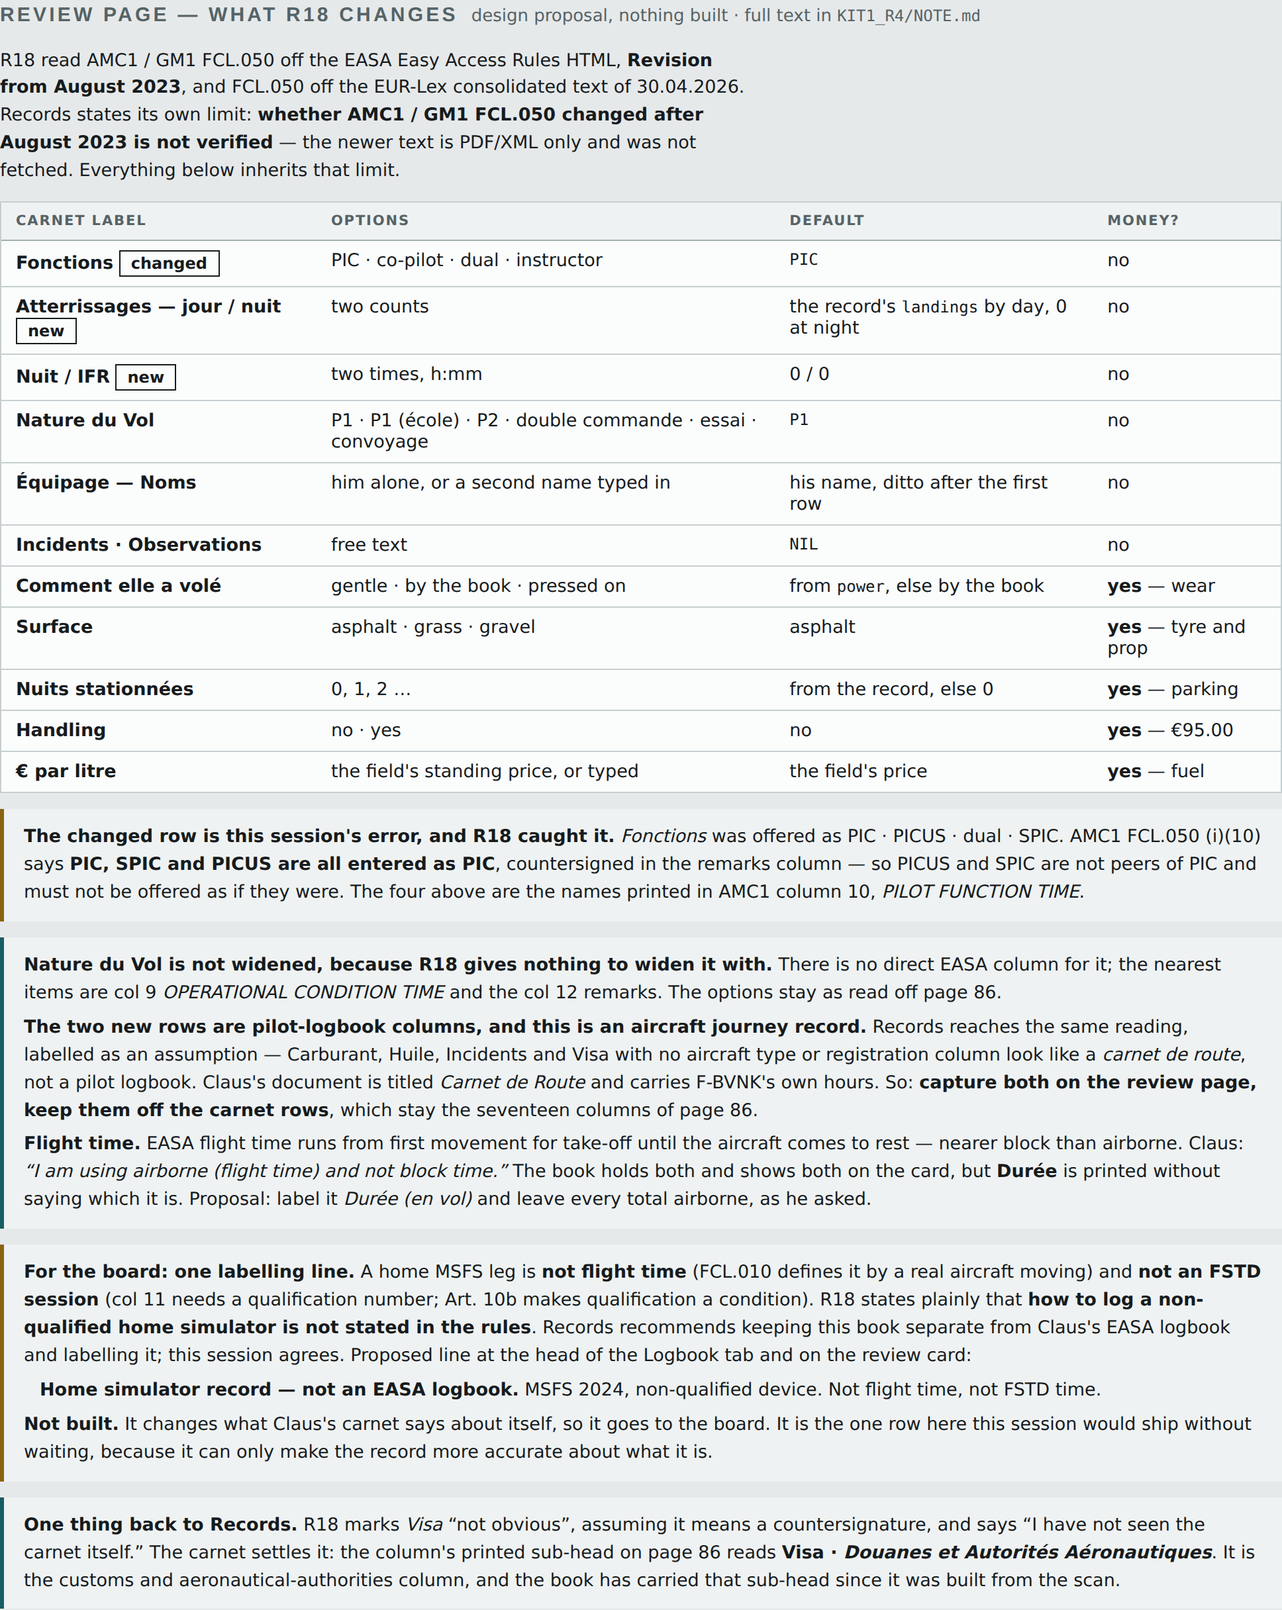
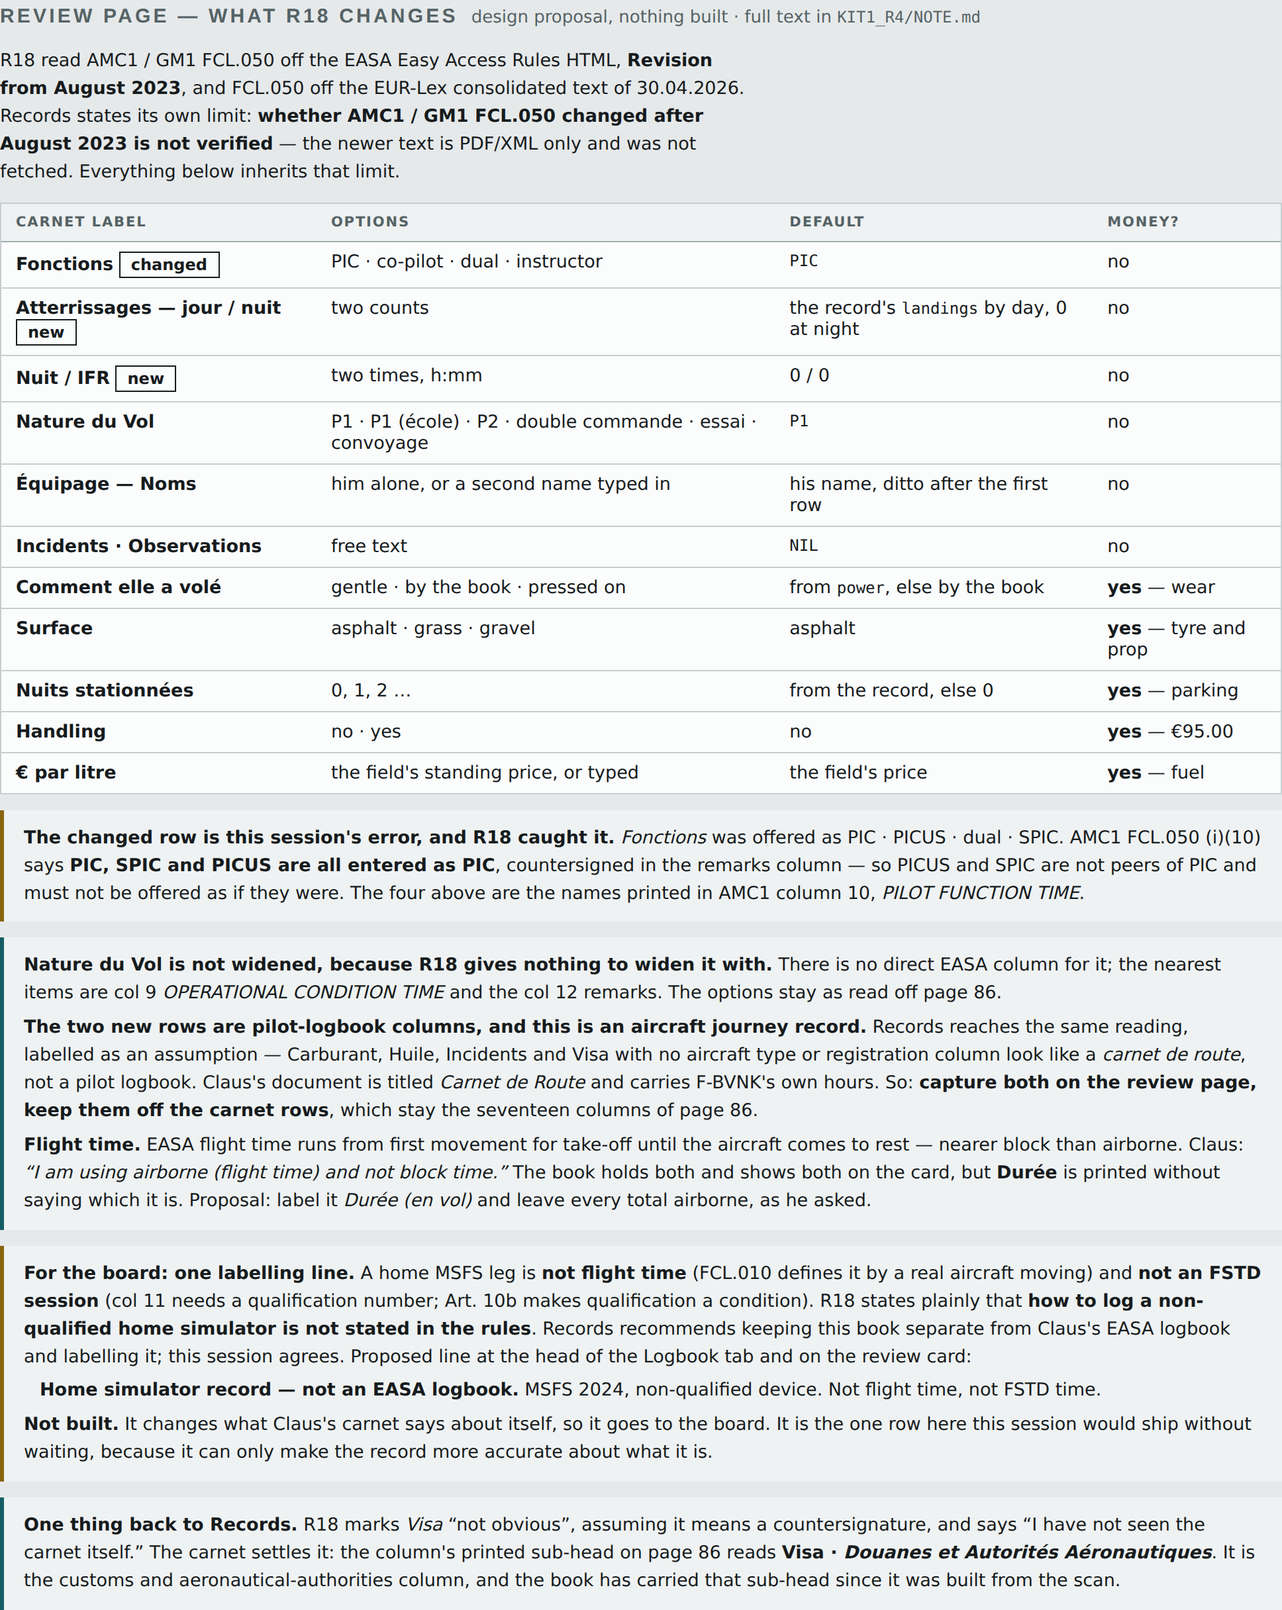
Job Card rev 10: R5 reported, and the accrual clock put to the board
The card carries Claus's carnet rule, both defects it exposed, the Tarbes
picker as this session's own initiative, and the accrual-clock disagreement
with its arithmetic: airborne against tacho, 18.80% apart on page 86's own
figures, EUR 303.98 a year on his 2025 flying. That last one is a decision
for him and the card says so rather than deciding it.

Doc pointers moved from KIT1_R4 to KIT1_R5, and the artefact table carries
the current ledger size, md5 and commit.

Claude-Session: https://claude.ai/code/session_019eb6XVXXj1PL6PpGAG61Zn

diff --git a/fbvnk-sim-ledger/JOB-CARD.html b/fbvnk-sim-ledger/JOB-CARD.html
@@ -160,7 +160,7 @@ footer{border-top:1px solid var(--line);padding-top:14px;font-size:13px;color:va
     <dl>
       <dt>Lane</dt><dd>design &amp; stage</dd>
       <dt>Leader</dt><dd>FBVNK PM</dd>
-      <dt>Card</dt><dd>16 Sep 2026 &middot; rev 9</dd>
+      <dt>Card</dt><dd>16 Sep 2026 &middot; rev 10</dd>
     </dl>
   </div>
 </header>
@@ -480,7 +480,7 @@ footer{border-top:1px solid var(--line);padding-top:14px;font-size:13px;color:va
 </section>
 
 <section>
-  <h2>Review after each flight <span class="hint">design proposal, nothing built &mdash; full table in <span class="mono tiny">KIT1_R4/NOTE.md</span></span></h2>
+  <h2>Review after each flight <span class="hint">design proposal, nothing built &mdash; full table in <span class="mono tiny">KIT1_R5/NOTE.md</span></span></h2>
   <p class="small">Claus asked what selections the review page should offer, and said <em>&ldquo;Maybe u already set this up, I haven&rsquo;t checked yet&rdquo;</em>. He has not, so here is the page as it actually stands with an automatic leg, read off the running book rather than described from the source.</p>
   <div class="note">
     <p><strong>What is already there.</strong> It opens by itself when a record arrives. Prefilled: route with off/on times, Date, Dur&eacute;e, Nature, Carburant with the rung that produced it, and an <span class="mono tiny">AUTO</span> block carrying Moteur, En vol, FP-5L, Touch&eacute;, Tacho and the record&rsquo;s reference. It lists every <span class="mono tiny">assumption:</span> it had to make, and every invoice and tech-log line the leg posted. Then a signature line, and the cost appears only once he signs.</p>
@@ -491,6 +491,70 @@ footer{border-top:1px solid var(--line);padding-top:14px;font-size:13px;color:va
     <p class="small"><strong>The EASA side is now in, as R18.</strong> It moved one row, added two and left <em>Nature du Vol</em> alone &mdash; the section below has it.</p>
   </div>
   <p class="small"><strong>The P1 figure is closed, and not by me.</strong> Claus, 18:04:32: &ldquo;good bloody question&hellip; ha ha, I should know, but I just carried it over from the previous owners. Keep it the same&rdquo;. The Logbook tab no longer calls it an assumption of this session&rsquo;s &mdash; it quotes him, and the figure stays exactly as his pages carry it.</p>
+</section>
+
+<section>
+  <h2>KIT1 revision 5 &mdash; REPORTED <span class="hint">Claus&rsquo;s carnet rule of 18:34 &middot; two defects it exposed &middot; one decision for the board &middot; Records reviews it as K7e</span></h2>
+  <div class="note warn">
+    <p><strong>Working Claus&rsquo;s rule through the book found two things wrong with the book, not one rule to add.</strong> His words, 18:34: <em>&ldquo;If NO airborne event, no log entry at all. Eg, engine starts, taxi etc. if no airborne (flight even) NO log book entry. Only airborne (flight time) events goes into the logbook. So, from time to time there may be a tacho log entry &lsquo;discrepency&rsquo; between last leg and current (last) leg - just like real world, so just accept this.&rdquo;</em></p>
+  </div>
+  <div class="note warn">
+    <p><strong>A1 &middot; the air start, which the old reading got backwards.</strong> The carnet test was the <span class="mono tiny">noTakeOff</span> flag, and that is not the same claim as the airborne event. An <strong>air start is spawned airborne</strong>: the flag is true and it is still a flight. The book was keeping <strong>every air start out of Claus&rsquo;s logbook</strong>. The test is now the airborne figure when the record carries one, falling back to whether a take-off or landing time exists when it does not &mdash; an aeroplane that took off was airborne whether or not the record put a number on it. A record claiming zero airborne <em>and</em> a take-off time contradicts itself: the airborne figure wins and the page says the converter is worth checking.</p>
+  </div>
+  <div class="note warn">
+    <p><strong>A2 &middot; a refusal that would have thrown away your first real record.</strong> A record stating <span class="mono tiny">airborneHours: 0.0</span> was <strong>refused outright</strong> &mdash; not filed, not posted, gone with its fuel and its engine time. The block-time fallback fired only when the airborne field was <em>missing</em>, and zero is not missing. The Builder&rsquo;s first real read, <span class="mono tiny">2026-09-16/16:14:01Z/1250.07</span>, is exactly that shape: <span class="mono tiny">airborneHours 0.0</span> with <span class="mono tiny">blockHours 0.081</span>. Fixed &mdash; it now files on <strong>0:05</strong> of block time, posts, and stays off the carnet. It was found by putting that record through the book verbatim rather than reading it against the contract.</p>
+  </div>
+  <div class="note">
+    <p><strong>A3 &middot; the tacho gap is not flagged, and never was.</strong> Searched the book for any tacho continuity check between consecutive legs: there is none, and there never was one, so there was nothing to make neutral. The line under the Logbook page now reads: <em>&ldquo;1 run with no airborne time is not on this page &mdash; only airborne events go in the logbook. It is in the Ledger, and its fuel and fees posted as usual. The tacho gap it leaves between legs is expected, not an error.&rdquo;</em></p>
+  </div>
+
+  <h3 style="margin-top:14px">A4 &middot; the accrual clock &mdash; a correction, not a confirmation <span class="tiny muted" style="font-weight:400">for the board</span></h3>
+  <div class="note warn">
+    <p>The PM asked this session to confirm the engine reserve accrues on TACH. <strong>It does not, in the laptop book.</strong></p>
+    <p class="small"><span class="mono tiny">PRICES_AND_BILLING_RULES.json</span> says the reserves accrue on <span class="mono tiny">NK_ST_TACH</span> deltas. That is right for the <strong>cockpit strip</strong>. The <strong>laptop book</strong> accrues on <span class="mono tiny">leg.hours</span>, which is <strong>airborne time</strong> &mdash; and so do the wear model, the sinking funds and the 25 / 50 / 100-hour inspection counters. The two halves of this project bill the same aeroplane on different clocks.</p>
+    <p class="small"><strong>The size of it is measured off your own page 86, not estimated.</strong> Tacho 7,9200 h against 6,6667 h flown over the same eight legs &mdash; 0,1567 h per leg, <strong>18.80 % more</strong>.</p>
+  </div>
+  <div class="tw">
+    <table>
+      <thead><tr><th>Basis, at &euro;20.79 engine + &euro;1.36 propeller = &euro;22.15/h</th><th class="num">Page 86&rsquo;s eight legs</th><th class="num">Your real 2025 year, 73.00 flown h</th></tr></thead>
+      <tbody>
+        <tr><td>Airborne &mdash; what the book does</td><td class="num">&euro;147.67</td><td class="num">&mdash;</td></tr>
+        <tr><td>Tacho &mdash; what the kit says</td><td class="num">&euro;175.43</td><td class="num">&mdash;</td></tr>
+        <tr><td><strong>Not accrued</strong></td><td class="num"><strong>&euro;27.76</strong> &middot; &euro;3.47/leg</td><td class="num"><strong>&euro;303.98</strong> &middot; &euro;285.31 engine, &euro;18.66 prop</td></tr>
+      </tbody>
+    </table>
+  </div>
+  <p class="small">The inspection counters carry the same difference: 100 flown hours is 118.80 tacho hours, so an inspection due on tacho arrives <strong>15.82 flown hours late</strong> on the book&rsquo;s basis. Every figure computed in Python <span class="mono tiny">Decimal</span> with <span class="mono tiny">ROUND_HALF_UP</span> from page 86&rsquo;s own totals and the kit&rsquo;s own rates.</p>
+  <div class="note">
+    <p><strong>Your call, and this session will not take it.</strong> The case for airborne is that you keep your carnet on airborne time and said so. The case for tacho is that an engine wears while it idles, and the real reserve rates were set against a real aeroplane&rsquo;s real hours. Whichever way you answer, both halves take the same answer. The book is unchanged pending it, and the divergence is now written into both <span class="mono tiny">PRICES_AND_BILLING_RULES.json</span> and <span class="mono tiny">STRIP_SPEC.md</span> so neither can be read without it.</p>
+  </div>
+  <div class="note">
+    <p><strong>Fuel that falls between legs, and why it needs no assumed burn rate.</strong> Once V275 stops the aeroplane closing ground-run legs, fuel burnt between legs is billed by nothing. But the gap is <em>measurable</em>: previous leg&rsquo;s <span class="mono tiny">fp5lArr</span> less this leg&rsquo;s <span class="mono tiny">fp5lStart</span>, straight off the FP-5L. <strong>Proposed, not built:</strong> bill that difference when it is positive and no uplift is declared between the two, at the departure field&rsquo;s price, labelled on the review page. At Cascais&rsquo;s &euro;2.30/L a 3 L gap is <strong>&euro;6.90</strong> gross, a 10 L gap <strong>&euro;23.00</strong>. This session has <strong>no measured ground burn rate for F-BVNK and assumes none</strong> &mdash; the one real ground run carries a refuel (fp5l 231&nbsp;&rarr;&nbsp;234), so no burn is readable from it at all.</p>
+  </div>
+
+  <h3 style="margin-top:14px">What Tarbes exposed <span class="tiny muted" style="font-weight:400">this session&rsquo;s own initiative &mdash; reverse it if it is wrong</span></h3>
+  <div class="note warn">
+    <p>The first real record departs and arrives at <strong>Tarbes LFBT</strong>, which is in neither the field table nor R17. It resolves to nothing, files as <span class="mono tiny">????</span> and prices at the default field &mdash; all by design and labelled. But the review page&rsquo;s aerodrome picker offered <strong>only the eight codes already in the table</strong>, so it could not have been named. On the first night with the converter live, every leg from Tarbes would have filed as <span class="mono tiny">????</span> with no way to fix it.</p>
+    <p class="small">There is now a box beside the picker that takes any four-letter code. Typing <span class="mono tiny">LFBT</span> learns the position against it, the carnet row reads <span class="mono tiny">LFBT</span>, and the next leg from there resolves by itself &mdash; verified at <strong>0.4 nm</strong> and <strong>0.0 nm</strong>. <strong>It invents no fees.</strong> An aerodrome with no entry in the field table is priced at the default and the card says so outright, because a made-up landing fee would be worse than an honest default.</p>
+    <p class="small">Two defects turned up building it and are fixed: naming a field fired twice (the keystroke&rsquo;s <span class="mono tiny">change</span> and the native one on blur) so the note landed twice, and re-rendering the card from inside a handler on an element inside that card threw a DOM error.</p>
+    <p class="small"><strong>Still needed, and not invented here:</strong> LFBT&rsquo;s ARP from the French AIP &mdash; Records&rsquo; work, R19 if the PM wants it &mdash; and its landing, parking and fuel figures, which are Claus&rsquo;s or the PM&rsquo;s.</p>
+  </div>
+  <div class="note">
+    <p><strong>Two fields added, nothing switched.</strong> <span class="mono tiny">realEngineStart</span> / <span class="mono tiny">realShutdown</span>, the PC clock in UTC at the logger rows that opened and closed the leg. <strong>The sim clock stays what the carnet prints</strong> &mdash; the carnet is the aeroplane&rsquo;s book and it is her clock that belongs in it &mdash; and the PM says the question of which Claus prefers has not been put to him. The book carries both and the review page speaks only where they differ: <em>&ldquo;The PC clock and the aeroplane&rsquo;s clock differ on this leg: she says 09:00 &rarr; 10:00, the laptop says 21:03 &rarr; 22:04. The carnet takes her clock.&rdquo;</em></p>
+  </div>
+  <div class="tw">
+    <table>
+      <thead><tr><th>File</th><th class="num">Size</th><th>md5</th></tr></thead>
+      <tbody>
+        <tr><td class="mono tiny">PRICES_AND_BILLING_RULES.json</td><td class="num">66,796 B</td><td class="mono tiny">da176bd578343121b1c3fb334bf6ac98</td></tr>
+        <tr><td class="mono tiny">TEST_VECTORS.json</td><td class="num">58,700 B</td><td class="mono tiny">2a816f1ef1c44ded6be7d107d2a15671</td></tr>
+        <tr><td class="mono tiny">LEG_CONTRACT.md</td><td class="num">22,822 B</td><td class="mono tiny">074be1f510ef847e1a9ea011e38454a5</td></tr>
+        <tr><td class="mono tiny">STRIP_SPEC.md</td><td class="num">13,186 B</td><td class="mono tiny">1f99dec6744aff2378e8c009f3bb1914</td></tr>
+        <tr><td class="mono tiny">NOTE.md</td><td class="num">42,988 B</td><td class="mono tiny">266616509df19f1108f5ce9e109987a4</td></tr>
+      </tbody>
+    </table>
+  </div>
+  <p class="tiny muted"><span class="mono">fbvnk-sim-ledger/KIT1_R5/</span> on <span class="mono">claude/fbvnk-cost-sheet-maintenance-svcsw2</span>, commit <span class="mono">e0d924b02e232b92443dae7e6abb36f775e48c4e</span>. Staging folder <span class="mono tiny">FBVNK_SIM_LEDGER_KIT1_R5/</span> carries <span class="mono tiny">MD5.txt</span> and <span class="mono tiny">READ_THIS_FIRST.md</span>, same reason as R4. Thirty-three vectors now, V1&ndash;V32: <strong>V29</strong> the airborne-event rule, <strong>V30</strong> the zero-airborne refusal with the real record in it, <strong>V31</strong> the real-clock pair, <strong>V32</strong> the accrual disagreement written down so it cannot be read past. R1&ndash;R4 stay frozen.</p>
 </section>
 
 <section>
@@ -529,7 +593,7 @@ footer{border-top:1px solid var(--line);padding-top:14px;font-size:13px;color:va
 </section>
 
 <section>
-  <h2>Review page &mdash; what R18 changes <span class="hint">design proposal, nothing built &middot; full text in <span class="mono tiny">KIT1_R4/NOTE.md</span></span></h2>
+  <h2>Review page &mdash; what R18 changes <span class="hint">design proposal, nothing built &middot; full text in <span class="mono tiny">KIT1_R5/NOTE.md</span></span></h2>
   <p class="small">R18 read AMC1 / GM1 FCL.050 off the EASA Easy Access Rules HTML, <strong>Revision from August 2023</strong>, and FCL.050 off the EUR-Lex consolidated text of 30.04.2026. Records states its own limit: <strong>whether AMC1 / GM1 FCL.050 changed after August 2023 is not verified</strong> &mdash; the newer text is PDF/XML only and was not fetched. Everything below inherits that limit.</p>
   <div class="tw">
     <table>
@@ -624,8 +688,8 @@ footer{border-top:1px solid var(--line);padding-top:14px;font-size:13px;color:va
 </section>
 
 <section>
-  <h2>Contract <span class="mono">FBVNK_LEG/2</span> <span class="hint">revised after K7b and V274 &middot; full text in <span class="mono tiny">KIT1_R4/LEG_CONTRACT.md</span> &middot; the sim half is installed</span></h2>
-  <p class="small">Claus's order, relayed 16 Sep 14:42: &ldquo;all these numbers shall not require pilot input, they shall be entered automatically &hellip; Airborne times, take off and landing, fuel from the FP5L at engine start (dep) and engine shutdown (arr), simulator integration should show up on either the EFB (automatically) or the cockpit iPad, either way.&rdquo; Both halves now exist: <strong>V274 installed 16:44:49</strong> records the leg, and the laptop book takes automatic legs as its primary input with the hand form demoted to a collapsed fallback. The table below is revision&nbsp;1 of the contract, kept for the record; <strong>revision&nbsp;2 is what the converter is built to</strong> and it is written out in full in <span class="mono tiny">KIT1_R4/LEG_CONTRACT.md</span> &mdash; the R3 copy is superseded, and so is the one in the R4 staging folder.</p>
+  <h2>Contract <span class="mono">FBVNK_LEG/2</span> <span class="hint">revised after K7b and V274 &middot; full text in <span class="mono tiny">KIT1_R5/LEG_CONTRACT.md</span> &middot; both halves installed</span></h2>
+  <p class="small">Claus's order, relayed 16 Sep 14:42: &ldquo;all these numbers shall not require pilot input, they shall be entered automatically &hellip; Airborne times, take off and landing, fuel from the FP5L at engine start (dep) and engine shutdown (arr), simulator integration should show up on either the EFB (automatically) or the cockpit iPad, either way.&rdquo; Both halves now exist: <strong>V274 installed 16:44:49</strong> records the leg, and the laptop book takes automatic legs as its primary input with the hand form demoted to a collapsed fallback. The table below is revision&nbsp;1 of the contract, kept for the record; <strong>revision&nbsp;2 is what the converter is built to</strong> and it is written out in full in <span class="mono tiny">KIT1_R5/LEG_CONTRACT.md</span> &mdash; the R3 copy is superseded, and so is the one in the R4 staging folder.</p>
   <div class="note">
     <p><strong>What changed in revision 2, all of it implemented and tested in the book.</strong> Positions instead of ICAO codes, with the book resolving them and labelling what it cannot. Zulu times, with a UTC/local control on the carnet. A landing count, the arrival time being the last one. <span class="mono tiny">touchdownFpm</span> positive for descent, clamped at 0 &mdash; and a <em>negative</em> value said out loud rather than quietly flipped, because it means either a converter that forgot to negate, in which case every landing comes through soft and the hard-landing check silently never fires again, or an arrival with no descent. Two fuel numbers, REM for the carnet columns and a separate burn with a <span class="mono tiny">burnSource</span> chain, because a refuel inside the leg makes start-minus-shutdown wrong by a factor of seven on a 200&nbsp;&rarr;&nbsp;190 leg. And V274's <span class="mono tiny">noTakeOff</span> and <span class="mono tiny">stopInAir</span>: an engine run that never got airborne is filed and posts but stays <strong>out of the carnet</strong>, because a ground run is not a flight, and the Logbook page says how many are being left out.</p>
   </div>
@@ -832,17 +896,18 @@ footer{border-top:1px solid var(--line);padding-top:14px;font-size:13px;color:va
     <table>
       <thead><tr><th>Artefact</th><th>Where</th><th class="num">Size</th><th>md5</th></tr></thead>
       <tbody>
-        <tr><td>The ledger itself</td><td class="mono tiny">fbvnk-sim-ledger/FBVNK-LEDGER.html</td><td class="num">146,792 B</td><td class="mono tiny">9df87f05</td></tr>
+        <tr><td>The ledger itself</td><td class="mono tiny">fbvnk-sim-ledger/FBVNK-LEDGER.html</td><td class="num">152,677 B</td><td class="mono tiny">7dd833a6</td></tr>
         <tr><td>Install and rules note</td><td class="mono tiny">fbvnk-sim-ledger/README.md</td><td class="num">5,767 B</td><td class="mono tiny">1a645093</td></tr>
-        <tr><td>KIT1 R4, five files <span class="pill done">reported</span></td><td class="mono tiny">fbvnk-sim-ledger/KIT1_R4/</td><td class="num">172,036 B</td><td class="mono tiny">see the R4 table above</td></tr>
-        <tr><td>Checksums + pointer, R4</td><td class="mono tiny">FBVNK_STAGING/FBVNK_SIM_LEDGER_KIT1_R4/</td><td class="num">3,368 B</td><td class="mono tiny">&mdash;</td></tr>
+        <tr><td>KIT1 R5, five files <span class="pill done">reported</span></td><td class="mono tiny">fbvnk-sim-ledger/KIT1_R5/</td><td class="num">204,492 B</td><td class="mono tiny">see the R5 table above</td></tr>
+        <tr><td>Checksums + pointer, R5</td><td class="mono tiny">FBVNK_STAGING/FBVNK_SIM_LEDGER_KIT1_R5/</td><td class="num">4,537 B</td><td class="mono tiny">&mdash;</td></tr>
+        <tr><td>KIT1 R4, five files <span class="pill done">frozen</span></td><td class="mono tiny">fbvnk-sim-ledger/KIT1_R4/</td><td class="num">172,036 B</td><td class="mono tiny">see the R4 table above</td></tr>
         <tr><td>Staging note <span class="pill done">frozen</span></td><td class="mono tiny">FBVNK_STAGING/FBVNK_SIM_LEDGER/NOTE.md</td><td class="num">5,152 B</td><td class="mono tiny">&mdash;</td></tr>
         <tr><td>Checksums, <code>md5sum -c</code> format</td><td class="mono tiny">FBVNK_STAGING/FBVNK_SIM_LEDGER/MD5.txt</td><td class="num">96 B</td><td class="mono tiny">&mdash;</td></tr>
         <tr><td>NK_ wear spec <span class="tiny muted">by Records &amp; Checks</span></td><td class="mono tiny">FBVNK_STAGING/R5_nk_wear_spec/SPEC.md</td><td class="num">17,176 B</td><td class="mono tiny">c06f7305</td></tr>
       </tbody>
     </table>
   </div>
-  <p class="tiny muted">Git: <span class="mono">yeager74/travel-map</span>, branch <span class="mono">claude/fbvnk-cost-sheet-maintenance-svcsw2</span>, commit <span class="mono">86d39e0</span>. The spec's md5 is as stated by Records and Checks &mdash; <span class="mono">assumption:</span> not re-verified here, because the Dropbox connector returns extracted text rather than the file's bytes.</p>
+  <p class="tiny muted">Git: <span class="mono">yeager74/travel-map</span>, branch <span class="mono">claude/fbvnk-cost-sheet-maintenance-svcsw2</span>, commit <span class="mono">e0d924b</span>. The spec's md5 is as stated by Records and Checks &mdash; <span class="mono">assumption:</span> not re-verified here, because the Dropbox connector returns extracted text rather than the file's bytes.</p>
 </section>
 
 <footer>
